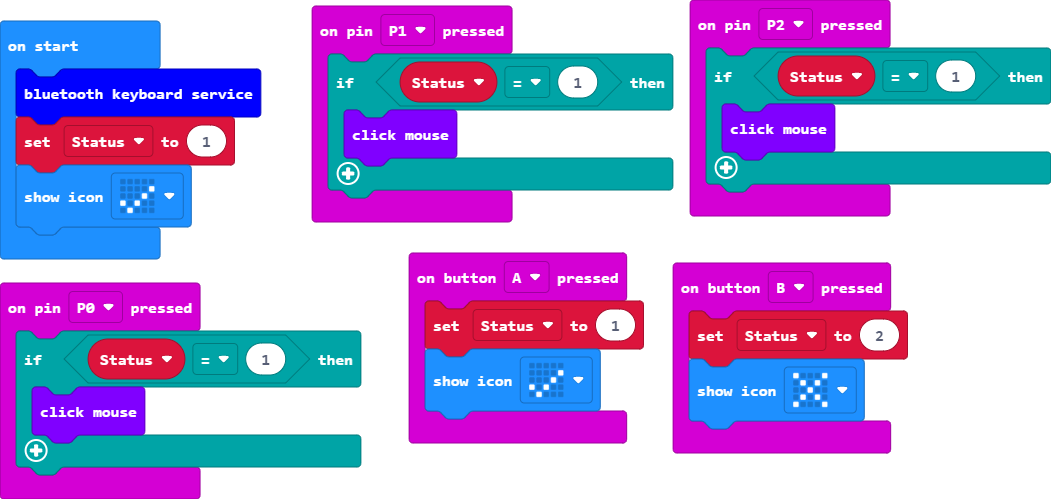
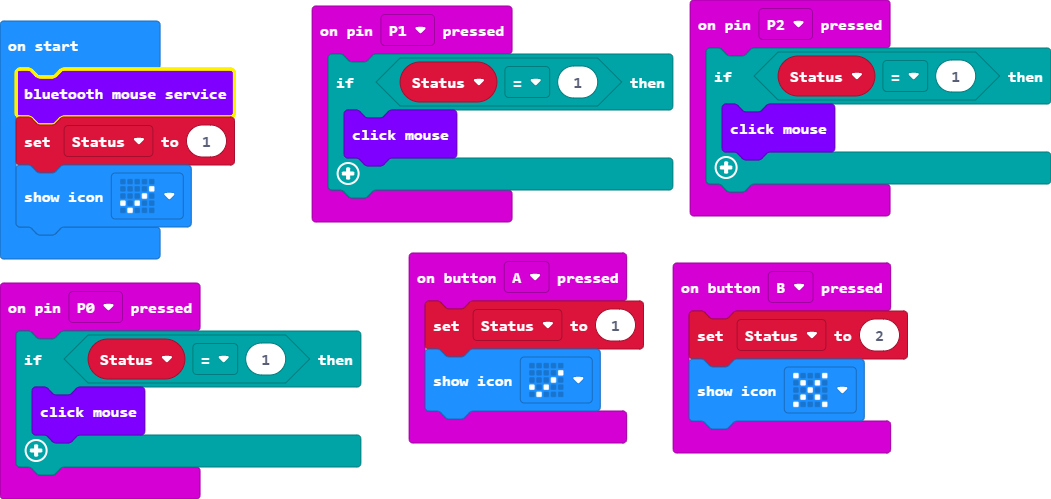
Update main.blocks, main.ts

Changed region(s): [[0.0, 0.1202, 0.274, 0.2705]]

diff --git a/main.ts b/main.ts
@@ -22,6 +22,6 @@ input.onPinPressed(TouchPin.P1, function () {
     }
 })
 let Status = 0
-keyboard.startKeyboardService()
+mouse.startMouseService()
 Status = 1
 basic.showIcon(IconNames.Yes)
